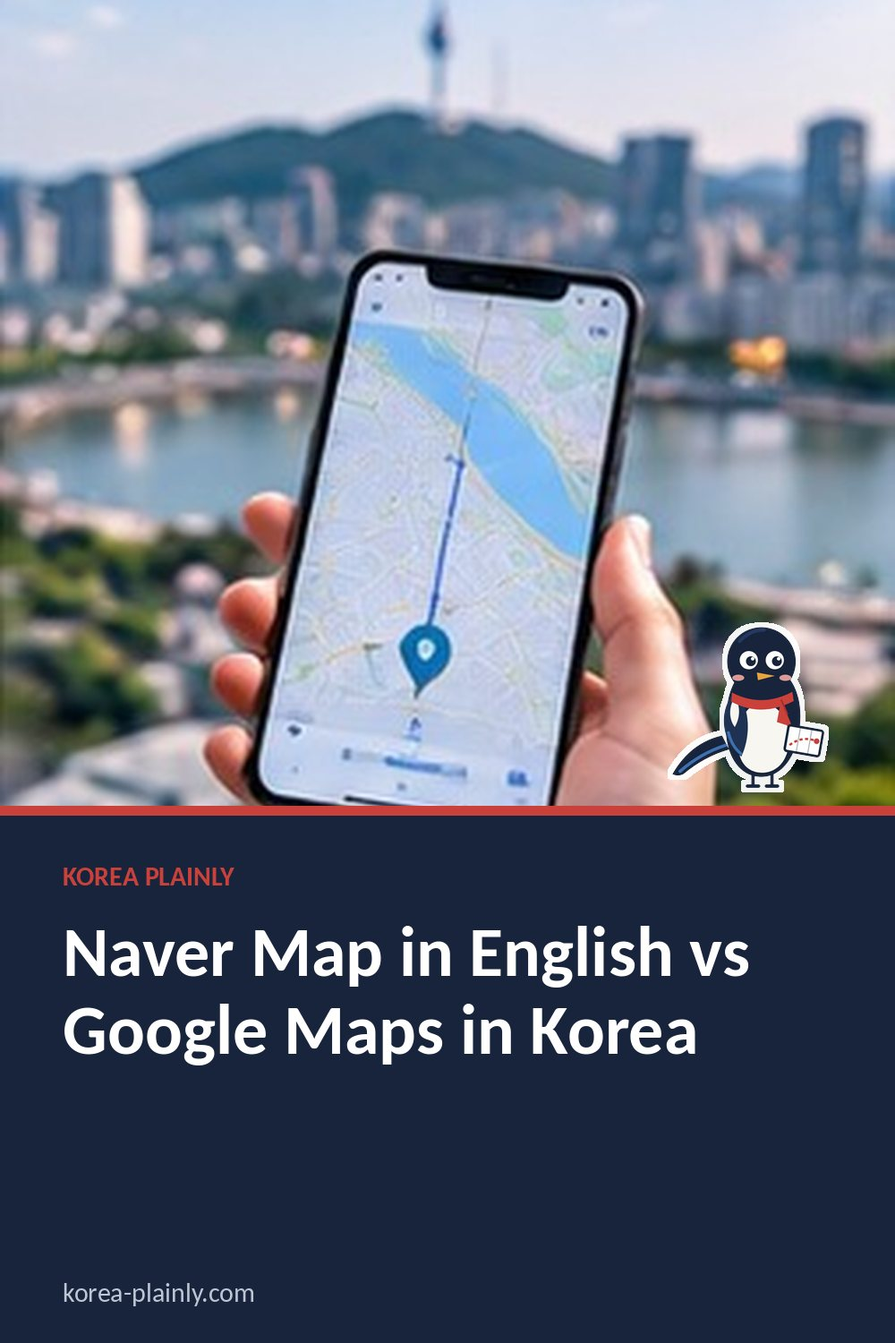
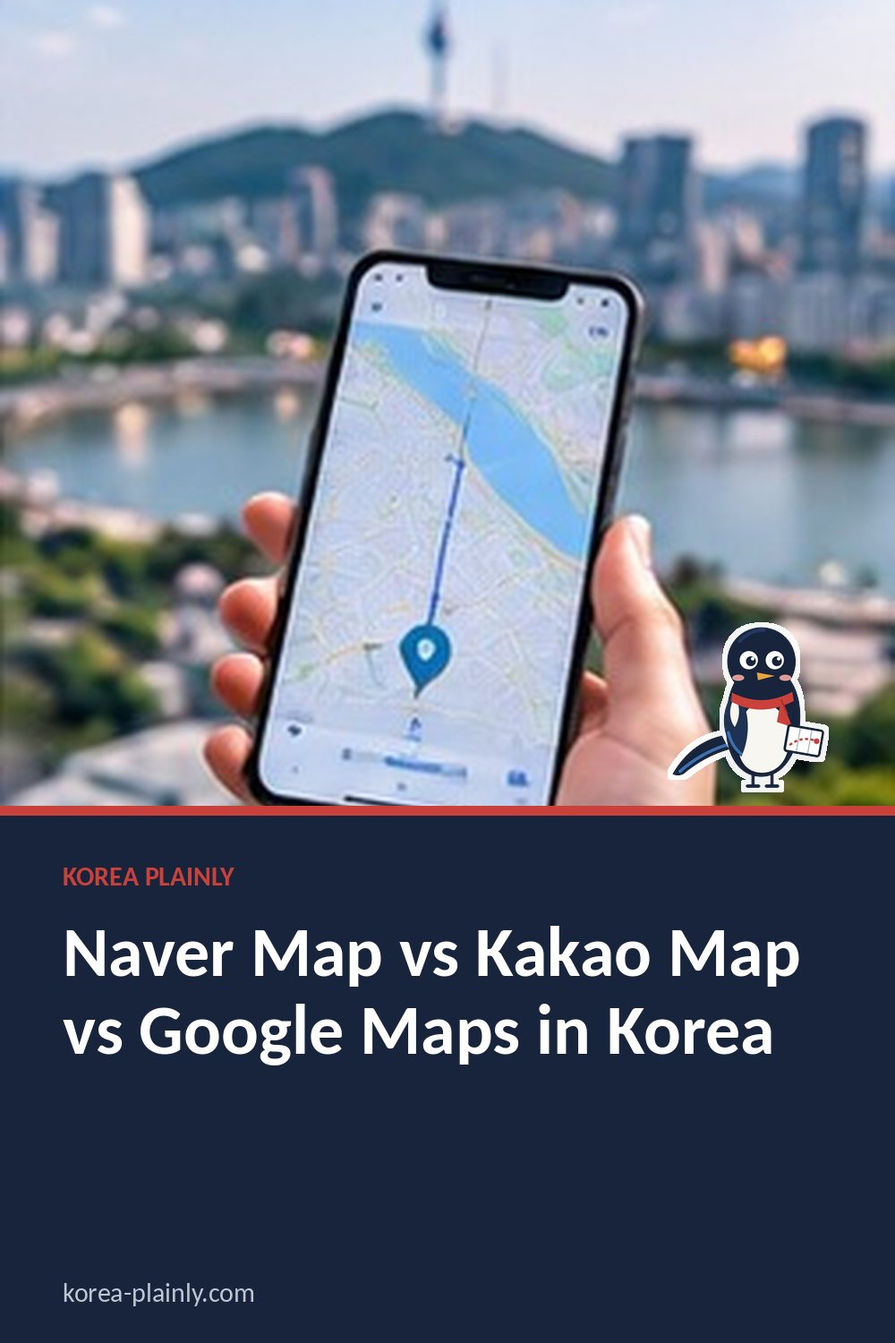
Maps guide: retitle for 'naver map vs kakao map' with a three-app comparison table, a fuller Kakao Map section and FAQ; update Google Maps navigation status; Seoul travel pass: retry cover photo (N Seoul Tower), hedge pass durations
Claude-Session: https://claude.ai/code/session_01MMQnqDytJhV9dFhVnL2wxf

Changed region(s): [[0.062, 0.6747, 0.899, 0.7973]]

diff --git a/naver-map-vs-google-maps-korea.html b/naver-map-vs-google-maps-korea.html
@@ -1,17 +1,17 @@
 <!doctype html>
 <html lang="en"><head><meta charset="utf-8"><meta name="viewport" content="width=device-width,initial-scale=1">
-<title>Naver Map in English vs Google Maps in Korea | Korea Plainly</title>
-<meta name="description" content="How to use Naver Map in English in Korea: language settings, subway exits and walking routes, and what Google Maps can and cannot do in 2026.">
+<title>Naver Map vs Kakao Map vs Google Maps in Korea: Which Map App to Use</title>
+<meta name="description" content="Naver Map vs Kakao Map vs Google Maps in Korea: which app works in English, shows subway exits and walking routes, and how to set each one up.">
 <link rel="canonical" href="https://korea-plainly.com/naver-map-vs-google-maps-korea.html">
 <meta property="og:type" content="article">
-<meta property="og:title" content="Naver Map in English vs Google Maps in Korea | Korea Plainly">
-<meta property="og:description" content="How to use Naver Map in English in Korea: language settings, subway exits and walking routes, and what Google Maps can and cannot do in 2026.">
+<meta property="og:title" content="Naver Map vs Kakao Map vs Google Maps in Korea: Which Map App to Use | Korea Plainly">
+<meta property="og:description" content="Naver Map vs Kakao Map vs Google Maps in Korea: which app works in English, shows subway exits and walking routes, and how to set each one up.">
 <meta property="og:url" content="https://korea-plainly.com/naver-map-vs-google-maps-korea.html">
 <meta property="og:image" content="https://korea-plainly.com/thumb-maps-korea.jpg">
 <meta property="og:site_name" content="Korea Plainly">
 <meta name="twitter:card" content="summary_large_image">
-<meta name="twitter:title" content="Naver Map in English vs Google Maps in Korea | Korea Plainly">
-<meta name="twitter:description" content="How to use Naver Map in English in Korea: language settings, subway exits and walking routes, and what Google Maps can and cannot do in 2026.">
+<meta name="twitter:title" content="Naver Map vs Kakao Map vs Google Maps in Korea: Which Map App to Use | Korea Plainly">
+<meta name="twitter:description" content="Naver Map vs Kakao Map vs Google Maps in Korea: which app works in English, shows subway exits and walking routes, and how to set each one up.">
 <meta name="twitter:image" content="https://korea-plainly.com/thumb-maps-korea.jpg">
 <link rel="stylesheet" href="style.css?v=20261015-1">
 <style>
@@ -22,9 +22,9 @@
 <script async src="https://www.googletagmanager.com/gtag/js?id=G-F508WWT8G9"></script><script>window.dataLayer=window.dataLayer||[];function gtag(){dataLayer.push(arguments);}gtag('js',new Date());gtag('config','G-F508WWT8G9');</script>
 <link rel="stylesheet" href="article.css?v=3">
 <link rel="stylesheet" href="https://fonts.googleapis.com/css2?family=DM+Sans:wght@400;500;600;700&family=Playfair+Display:ital,wght@0,600;1,600&display=swap">
-<script type="application/ld+json" id="kp-faq-ld">{"@context": "https://schema.org", "@type": "FAQPage", "mainEntity": [{"@type": "Question", "name": "Does Google Maps work in South Korea?", "acceptedAnswer": {"@type": "Answer", "text": "Partly. Place search, reviews and public transport directions work. Full walking and driving directions were approved with conditions in 2026 but were still being rolled out that autumn, so keep a Korean map app as well."}}, {"@type": "Question", "name": "Is Naver Map available in English?", "acceptedAnswer": {"@type": "Answer", "text": "Yes. Change the app language to English in Settings. Menus, route steps and most station names switch to English, while restaurant menus and reviews often stay in Korean."}}, {"@type": "Question", "name": "Do I need a Naver account to use Naver Map?", "acceptedAnswer": {"@type": "Answer", "text": "No. Searching and directions work without one. You only need to sign in to save places to your own lists."}}]}</script>
-<script type="application/ld+json" id="kp-article-ld">{"@context": "https://schema.org", "@type": "Article", "headline": "Naver Map in English vs Google Maps in Korea", "description": "How to use Naver Map in English in Korea: language settings, subway exits and walking routes, and what Google Maps can and cannot do in 2026.", "image": ["https://korea-plainly.com/thumb-maps-korea.jpg"], "datePublished": "2026-10-07", "dateModified": "2026-10-24", "author": {"@type": "Person", "name": "Jungsuk Kim", "url": "https://korea-plainly.com/about.html#author"}, "publisher": {"@type": "Organization", "name": "Korea Plainly", "url": "https://korea-plainly.com/"}, "mainEntityOfPage": "https://korea-plainly.com/naver-map-vs-google-maps-korea.html"}</script>
-<script type="application/ld+json" id="kp-breadcrumb-ld">{"@context": "https://schema.org", "@type": "BreadcrumbList", "itemListElement": [{"@type": "ListItem", "position": 1, "name": "Home", "item": "https://korea-plainly.com/"}, {"@type": "ListItem", "position": 2, "name": "Guides", "item": "https://korea-plainly.com/guides.html"}, {"@type": "ListItem", "position": 3, "name": "Apps & Tips", "item": "https://korea-plainly.com/guides.html?category=apps"}, {"@type": "ListItem", "position": 4, "name": "Naver Map in English vs Google Maps in Korea", "item": "https://korea-plainly.com/naver-map-vs-google-maps-korea.html"}]}</script>
+<script type="application/ld+json" id="kp-faq-ld">{"@context": "https://schema.org", "@type": "FAQPage", "mainEntity": [{"@type": "Question", "name": "Does Google Maps work in South Korea?", "acceptedAnswer": {"@type": "Answer", "text": "Partly. Place search, reviews and public transport directions work. Google plans full walking and driving directions after a conditional approval in 2026, but has not given a date, so keep Naver Map or Kakao Map as well."}}, {"@type": "Question", "name": "Is Naver Map available in English?", "acceptedAnswer": {"@type": "Answer", "text": "Yes. Change the app language to English in Settings. Menus, route steps and most station names switch to English, while restaurant menus and reviews often stay in Korean."}}, {"@type": "Question", "name": "Naver Map or Kakao Map: which is better for tourists?", "acceptedAnswer": {"@type": "Answer", "text": "Naver Map, for most visitors, because its English mode is more complete and it shows subway exits and transfer carriages clearly. Kakao Map is a useful backup, especially for live bus tracking and for places Naver cannot find."}}, {"@type": "Question", "name": "Do I need a Naver or Kakao account?", "acceptedAnswer": {"@type": "Answer", "text": "No. Searching and directions work in both apps without an account. You only need to sign in to save places to your own lists."}}]}</script>
+<script type="application/ld+json" id="kp-article-ld">{"@context": "https://schema.org", "@type": "Article", "headline": "Naver Map vs Kakao Map vs Google Maps in Korea: Which Map App to Use", "description": "Naver Map vs Kakao Map vs Google Maps in Korea: which app works in English, shows subway exits and walking routes, and how to set each one up.", "image": ["https://korea-plainly.com/thumb-maps-korea.jpg"], "datePublished": "2026-10-07", "dateModified": "2026-10-27", "author": {"@type": "Person", "name": "Jungsuk Kim", "url": "https://korea-plainly.com/about.html#author"}, "publisher": {"@type": "Organization", "name": "Korea Plainly", "url": "https://korea-plainly.com/"}, "mainEntityOfPage": "https://korea-plainly.com/naver-map-vs-google-maps-korea.html"}</script>
+<script type="application/ld+json" id="kp-breadcrumb-ld">{"@context": "https://schema.org", "@type": "BreadcrumbList", "itemListElement": [{"@type": "ListItem", "position": 1, "name": "Home", "item": "https://korea-plainly.com/"}, {"@type": "ListItem", "position": 2, "name": "Guides", "item": "https://korea-plainly.com/guides.html"}, {"@type": "ListItem", "position": 3, "name": "Apps & Tips", "item": "https://korea-plainly.com/guides.html?category=apps"}, {"@type": "ListItem", "position": 4, "name": "Naver Map vs Kakao Map vs Google Maps in Korea: Which Map App to Use", "item": "https://korea-plainly.com/naver-map-vs-google-maps-korea.html"}]}</script>
 <meta property="article:published_time" content="2026-10-07">
 </head><body class="kp-article">
 <header><div class="nav wrap"><a class="brand" href="index.html"><span class="taegeuk"></span><span>Korea <b>Plainly</b></span></a>
@@ -39,15 +39,15 @@
 </nav>
 <button class="menu" aria-label="menu">☰</button></div></header>
 <main class="article-page"><section class="wrap article-hero"><nav class="kp-crumbs" data-kp="crumbs" aria-label="Breadcrumb"><a href="index.html">Home</a> <span>›</span> <a href="guides.html">Guides</a> <span>›</span> <a href="guides.html?category=apps">Apps &amp; Tips</a></nav>
-<p class="kicker"><i></i> APPS & TIPS · TRAVEL</p><h1>Naver Map in English vs Google Maps in Korea</h1>
-<p class="kp-date" data-kp="date">By <a href="about.html#author">Jungsuk Kim</a>, Korea Plainly · Published <time datetime="2026-10-07">7 October 2026</time> · Updated <time datetime="2026-10-24">24 October 2026</time></p><p class="article-lead">How to use Naver Map in English in Korea: language settings, subway exits and walking routes, and what Google Maps can and cannot do in 2026.</p><p class="article-meta">Korea Plainly · 6 min read</p></section>
-<div class="wrap"><img class="cover" src="thumb-maps-korea.jpg" alt="Naver Map in English vs Google Maps in Korea"></div>
+<p class="kicker"><i></i> APPS & TIPS · TRAVEL</p><h1>Naver Map vs Kakao Map vs Google Maps in Korea: Which Map App to Use</h1>
+<p class="kp-date" data-kp="date">By <a href="about.html#author">Jungsuk Kim</a>, Korea Plainly · Published <time datetime="2026-10-07">7 October 2026</time> · Updated <time datetime="2026-10-27">27 October 2026</time></p><p class="article-lead">Naver Map vs Kakao Map vs Google Maps in Korea: which app works in English, shows subway exits and walking routes, and how to set each one up.</p><p class="article-meta">Korea Plainly · 7 min read</p></section>
+<div class="wrap"><img class="cover" src="thumb-maps-korea.jpg" alt="Naver Map, Kakao Map and Google Maps compared for Korea"></div>
 <article class="article-body">
-<p>If you are used to Google Maps, Korea can be a surprise. Google Maps finds places and shows bus and subway routes here, but for years it has not offered the step-by-step walking and driving directions you get at home. That is why most locals, and most visitors who have been once, open <strong>Naver Map</strong> instead. The good news is that Naver Map works in English. This guide shows how to set it up, what it does better, and where Google Maps still earns its place on your phone.</p>
+<p>If you are used to Google Maps, Korea can be a surprise. Google Maps finds places and shows bus and subway routes here, but it still does not give the step-by-step walking and driving directions you get at home. Locals use two Korean apps instead: <strong>Naver Map</strong> and <strong>Kakao Map</strong>. Both are free, both have an English mode, and both are far better than Google at the small things that matter on foot, such as which subway exit to take. This guide compares the three, shows how to set up Naver Map in English, and explains where Kakao Map and Google Maps still earn a place on your phone.</p>
 
-<nav class="kp-toc" data-kp="toc" aria-label="On this page"><p>On this page</p><ol><li><a href="#does-google-maps-work-in-korea">Does Google Maps work in Korea?</a></li><li><a href="#how-to-use-naver-map-in-english">How to use Naver Map in English</a></li><li><a href="#what-naver-map-does-better">What Naver Map does better</a></li><li><a href="#searching-tips">Searching in English: tips that save time</a></li><li><a href="#kakaomap">What about KakaoMap?</a></li><li><a href="#the-simple-approach">The simple approach</a></li><li><a href="#faq">FAQ</a></li></ol></nav>
+<nav class="kp-toc" data-kp="toc" aria-label="On this page"><p>On this page</p><ol><li><a href="#does-google-maps-work-in-korea">Does Google Maps work in Korea?</a></li><li><a href="#naver-map-vs-kakao-map-vs-google-maps">Naver Map vs Kakao Map vs Google Maps at a glance</a></li><li><a href="#how-to-use-naver-map-in-english">How to use Naver Map in English</a></li><li><a href="#what-naver-map-does-better">What Naver Map does better</a></li><li><a href="#searching-tips">Searching in English: tips that save time</a></li><li><a href="#kakaomap">Kakao Map: when it is the better choice</a></li><li><a href="#the-simple-approach">The simple approach</a></li><li><a href="#faq">FAQ</a></li></ol></nav>
 <h2 id="does-google-maps-work-in-korea">Does Google Maps work in Korea?</h2>
-<p>Partly. Korean rules on exporting detailed map data kept Google from offering full navigation for many years. In February 2026 the government approved Google's request with conditions, and Google has said it is preparing turn-by-turn directions for Korea. As of autumn 2026 that was still being rolled out, so on your trip Google Maps may or may not walk you to the door. Check it on the day, but do not rely on it alone.</p>
+<p>Partly. Korean rules on exporting detailed map data kept Google from offering full navigation for many years. In February 2026 the government approved Google's request with conditions (sensitive sites blurred, coordinates hidden), and in August 2026 Google said it plans to bring turn-by-turn directions to Korea, without giving a date. Until that arrives, Google Maps will not reliably walk you to the door. Check the app on your trip, but do not rely on it alone.</p>
 <p>What Google Maps does well in Korea right now:</p>
 <ul>
 <li>subway and bus directions between two points,</li>
@@ -55,6 +55,20 @@
 <li>keeping the list of places you saved while planning at home.</li>
 </ul>
 <p>What it does less well: walking routes through backstreets, which subway exit to use, and up-to-date details for small restaurants and cafes. Those are exactly the things Naver Map is built for.</p>
+
+<h2 id="naver-map-vs-kakao-map-vs-google-maps">Naver Map vs Kakao Map vs Google Maps at a glance</h2>
+<table>
+<thead><tr><th></th><th>Naver Map</th><th>Kakao Map</th><th>Google Maps</th></tr></thead>
+<tbody>
+<tr><td>English menus</td><td>Yes, good</td><td>Yes, patchier</td><td>Yes</td></tr>
+<tr><td>Walking directions</td><td>Yes</td><td>Yes</td><td>Limited (rollout planned)</td></tr>
+<tr><td>Subway exit numbers</td><td>Yes</td><td>Yes</td><td>Sometimes</td></tr>
+<tr><td>Live bus arrivals</td><td>Yes</td><td>Yes, very good</td><td>Partly</td></tr>
+<tr><td>Reviews in English</td><td>Few</td><td>Few</td><td>Many</td></tr>
+<tr><td>Account needed</td><td>Only to save places</td><td>Only to save places</td><td>Only to save places</td></tr>
+</tbody>
+</table>
+<p>In short: <strong>Naver Map</strong> is the best main app for most visitors, <strong>Kakao Map</strong> is a strong second opinion and the best for buses, and <strong>Google Maps</strong> is useful for planning at home and for reading English reviews.</p>
 
 <h2 id="how-to-use-naver-map-in-english">How to use Naver Map in English</h2>
 <p>Naver Map is free on iPhone and Android. Install it before you fly, while you are on familiar Wi-Fi.</p>
@@ -85,14 +99,22 @@
 <li><strong>Use the Naver Map links in our place guides.</strong> Every Korea Plainly place guide has a button that opens the exact place in Naver Map.</li>
 </ul>
 
-<h2 id="kakaomap">What about KakaoMap?</h2>
-<p><strong>KakaoMap</strong> is the other big Korean map app. It offers similar walking and transit directions, live bus times and its own street-level photos. Its English support has improved but is still patchier than Naver Map's, so most first-time visitors are happier with Naver Map as their main app and KakaoMap as a backup. If you use the Kakao T app for taxis, you will meet Kakao's maps there anyway; our <a href="kakao-t-taxi-korea.html">Kakao T taxi guide</a> explains how it works.</p>
+<h2 id="kakaomap">Kakao Map: when it is the better choice</h2>
+<p><strong>Kakao Map</strong> (written KakaoMap in the app stores) is run by Kakao, the company behind KakaoTalk and the Kakao T taxi app. Its walking and transit directions are as good as Naver's, and many Koreans prefer it for buses: the live bus screen shows where each bus is on its route, how full it is on some lines, and the last bus of the night.</p>
+<p>To use it in English, open the menu (≡), go to Settings and choose English as the language. If you cannot find the option, set your phone itself to English and restart the app. Menus and labels switch to English, but reviews, business descriptions and some transit alerts stay in Korean, and the website version is mostly Korean. In practice its English is a little less complete than Naver Map's.</p>
+<p>Kakao Map is worth installing as a backup when:</p>
+<ul>
+<li>Naver Map cannot find a place, or shows it in a strange spot. The two apps use different listings, so the second one often fixes the problem.</li>
+<li>you are waiting for a bus, especially a late one, and want to see exactly where it is;</li>
+<li>you are outside Seoul, where some small restaurants and guesthouses list themselves on one app but not the other.</li>
+</ul>
+<p>For in-car directions Kakao uses a separate app, Kakao Navi, which matters only if you rent a car. If you use Kakao T for taxis, you will see Kakao's maps there anyway; our <a href="kakao-t-taxi-korea.html">Kakao T taxi guide</a> explains how it works.</p>
 
 <h2 id="the-simple-approach">The simple approach</h2>
 <p>You do not have to choose one app. A setup that works for most visitors:</p>
 <ul>
-<li><strong>Before the trip:</strong> plan and save places in Google Maps if that is what you know, and install Naver Map in English with your hotel saved.</li>
-<li><strong>On the ground:</strong> use Naver Map for walking, subway exits and buses; use Google Maps to check English reviews.</li>
+<li><strong>Before the trip:</strong> plan and save places in Google Maps if that is what you know, and install Naver Map and Kakao Map, switch both to English and save your hotel.</li>
+<li><strong>On the ground:</strong> use Naver Map for walking, subway exits and buses; open Kakao Map when Naver cannot find a place or you are tracking a bus; use Google Maps to check English reviews.</li>
 <li><strong>Stay connected:</strong> both apps need mobile data for live routes, so sort out an eSIM, SIM or pocket Wi-Fi first (see our <a href="sim-esim-wifi-korea.html">SIM and eSIM guide</a>).</li>
 </ul>
 <p>Once you know which exit to take, the subway itself is easy; our <a href="seoul-subway-for-foreigners.html">Seoul subway guide</a> covers the rest.</p>
@@ -101,11 +123,13 @@
 <section class="faq">
 <h2 id="faq">FAQ</h2>
 <h3>Does Google Maps work in South Korea?</h3>
-<p>Partly. Place search, reviews and public transport directions work. Full walking and driving directions were approved with conditions in 2026 but were still being rolled out that autumn, so keep a Korean map app as well.</p>
+<p>Partly. Place search, reviews and public transport directions work. Google plans full walking and driving directions after a conditional approval in 2026, but has not given a date, so keep Naver Map or Kakao Map as well.</p>
 <h3>Is Naver Map available in English?</h3>
 <p>Yes. Change the app language to English in Settings. Menus, route steps and most station names switch to English, while restaurant menus and reviews often stay in Korean.</p>
-<h3>Do I need a Naver account to use Naver Map?</h3>
-<p>No. Searching and directions work without one. You only need to sign in to save places to your own lists.</p>
+<h3>Naver Map or Kakao Map: which is better for tourists?</h3>
+<p>Naver Map, for most visitors, because its English mode is more complete and it shows subway exits and transfer carriages clearly. Kakao Map is a useful backup, especially for live bus tracking and for places Naver cannot find.</p>
+<h3>Do I need a Naver or Kakao account?</h3>
+<p>No. Searching and directions work in both apps without an account. You only need to sign in to save places to your own lists.</p>
 </section>
 <a class="back" href="guides.html">← Back to all guides</a>
 <!-- kp-kkachi -->

diff --git a/seoul-travel-pass.html b/seoul-travel-pass.html
@@ -245,12 +245,12 @@ footer {
 <script async src="https://pagead2.googlesyndication.com/pagead/js/adsbygoogle.js?client=ca-pub-7379462117232471" crossorigin="anonymous"></script>
 <style>.kp-date{font-size:13px;color:#62635f;margin:-6px 0 22px}</style>
 <script type="application/ld+json" id="kp-faq-ld">{"@context": "https://schema.org", "@type": "FAQPage", "mainEntity": [{"@type": "Question", "name": "Is the Discover Seoul Pass worth buying?", "acceptedAnswer": {"@type": "Answer", "text": "It can be worthwhile if you plan to visit several attractions included with the pass during its validity period. Compare the attractions you genuinely want to see with the pass terms before buying. If your plans are flexible or focus on places that are not included, paying separately may suit you better."}}, {"@type": "Question", "name": "Does the Discover Seoul Pass cover public transportation?", "acceptedAnswer": {"@type": "Answer", "text": "Do not assume the pass gives you unlimited rides on Seoul’s public transport. Transport features and benefits can depend on the pass type, and some travel costs may need to be paid separately. Check the current details for your chosen pass and how to add or use any transport balance."}}, {"@type": "Question", "name": "When should I activate the pass?", "acceptedAnswer": {"@type": "Answer", "text": "Check the validity rules before your first visit, since the activation point and duration can depend on the pass you choose. Plan to use included attractions within the stated validity period, and avoid activating it earlier than necessary if you want to make the most of your sightseeing time."}}]}</script>
-<script type="application/ld+json" id="kp-article-ld">{"@context": "https://schema.org", "@type": "Article", "headline": "Discover Seoul Pass: Is the Seoul Travel Pass Worth It?", "description": "Find out how the Discover Seoul Pass works, which Seoul attractions suit it, and how to decide if it will save you money and time.", "image": ["https://korea-plainly.com/street.jpg"], "datePublished": "2026-10-27", "dateModified": "2026-10-27", "author": {"@type": "Person", "name": "Jungsuk Kim", "url": "https://korea-plainly.com/about.html#author"}, "publisher": {"@type": "Organization", "name": "Korea Plainly", "url": "https://korea-plainly.com/"}, "mainEntityOfPage": "https://korea-plainly.com/seoul-travel-pass.html"}</script>
-<script type="application/ld+json" id="kp-breadcrumb-ld">{"@context": "https://schema.org", "@type": "BreadcrumbList", "itemListElement": [{"@type": "ListItem", "position": 1, "name": "Home", "item": "https://korea-plainly.com/"}, {"@type": "ListItem", "position": 2, "name": "Guides", "item": "https://korea-plainly.com/guides.html"}, {"@type": "ListItem", "position": 3, "name": "Money", "item": "https://korea-plainly.com/guides.html?category=money"}, {"@type": "ListItem", "position": 4, "name": "Discover Seoul Pass: Is the Seoul Travel Pass Worth It?", "item": "https://korea-plainly.com/seoul-travel-pass.html"}]}</script>
-<meta property="article:published_time" content="2026-10-27">
 <link rel="stylesheet" href="article.css?v=3">
 <link rel="stylesheet" href="https://fonts.googleapis.com/css2?family=DM+Sans:wght@400;500;600;700&family=Playfair+Display:ital,wght@0,600;1,600&display=swap">
 <link rel="icon" href="/favicon.svg" type="image/svg+xml">
+<script type="application/ld+json" id="kp-article-ld">{"@context": "https://schema.org", "@type": "Article", "headline": "Discover Seoul Pass: Is the Seoul Travel Pass Worth It?", "description": "Find out how the Discover Seoul Pass works, which Seoul attractions suit it, and how to decide if it will save you money and time.", "image": ["https://korea-plainly.com/street.jpg"], "datePublished": "2026-10-27", "dateModified": "2026-10-27", "author": {"@type": "Person", "name": "Jungsuk Kim", "url": "https://korea-plainly.com/about.html#author"}, "publisher": {"@type": "Organization", "name": "Korea Plainly", "url": "https://korea-plainly.com/"}, "mainEntityOfPage": "https://korea-plainly.com/seoul-travel-pass.html"}</script>
+<script type="application/ld+json" id="kp-breadcrumb-ld">{"@context": "https://schema.org", "@type": "BreadcrumbList", "itemListElement": [{"@type": "ListItem", "position": 1, "name": "Home", "item": "https://korea-plainly.com/"}, {"@type": "ListItem", "position": 2, "name": "Guides", "item": "https://korea-plainly.com/guides.html"}, {"@type": "ListItem", "position": 3, "name": "Money", "item": "https://korea-plainly.com/guides.html?category=money"}, {"@type": "ListItem", "position": 4, "name": "Discover Seoul Pass: Is the Seoul Travel Pass Worth It?", "item": "https://korea-plainly.com/seoul-travel-pass.html"}]}</script>
+<meta property="article:published_time" content="2026-10-27">
 </head>
 
 <body class="kp-article">
@@ -299,7 +299,7 @@ Find out how the Discover Seoul Pass works, which Seoul attractions suit it, and
 <p>The Discover Seoul Pass can make a busy sightseeing trip cheaper, but it is not a general transport pass and it does not suit every visitor. Its value depends on how many included attractions you can comfortably visit during its timed validity. Plan around a few places you genuinely want to see, rather than racing across Seoul to collect admissions.</p>
 <nav class="kp-toc" data-kp="toc" aria-label="On this page"><p>On this page</p><ol><li><a href="#what-the-discover-seoul-pass-covers">What the Discover Seoul Pass covers</a></li><li><a href="#how-to-decide-if-it-is-worth-the-cost">How to decide if it is worth the cost</a></li><li><a href="#build-a-realistic-itinerary">Build a realistic itinerary</a></li><li><a href="#timing-and-practical-details">Timing and practical details</a></li><li><a href="#who-should-buy-it">Who should buy it?</a></li><li><a href="#frequently-asked-questions">Frequently Asked Questions</a></li></ol></nav>
 <h2 id="what-the-discover-seoul-pass-covers">What the Discover Seoul Pass covers</h2>
-<p>The pass is designed for international visitors and comes in timed options, commonly 24, 48, 72 or 120 hours. It gives free admission to participating attractions and may offer discounts or other benefits at selected places. Each free attraction is generally a one-time visit, not an unlimited ride or repeat entry.</p>
+<p>The pass is designed for international visitors and comes in timed options; recent versions have included 24-, 48-, 72- and 120-hour passes, and some sellers also offer a version where you pick a set number of attractions. It gives free admission to participating attractions and may offer discounts or other benefits at selected places. Each free attraction is generally a one-time visit, not an unlimited ride or repeat entry.</p>
 <p>Recent pass versions have featured major paid attractions such as N Seoul Tower Observatory, Lotte World Adventure, Seoul Sky and COEX Aquarium. The exact list and booking rules can change. Before buying, open the Discover Seoul Pass website or app and check that the places you want are included on your travel dates. Some experiences require a reservation or have separate conditions.</p>
 <p>The pass is not the same as a subway ticket. A physical card may have a T-money function, but you need to add transport credit separately; do not assume a mobile pass pays your subway fare. Use a T-money card or a suitable mobile transport option for travel around town.</p>
 <h2 id="how-to-decide-if-it-is-worth-the-cost">How to decide if it is worth the cost</h2>

diff --git a/guides.html b/guides.html
@@ -122,8 +122,8 @@ Ten Korean words that make eating out easy, with pronunciation: calling the serv
 </p><span class="guide-arrow">Read guide →</span></div>
 </a><a class="guide-card" href="naver-map-vs-google-maps-korea.html" data-guide-category="apps">
 <div class="guide-image" data-thumb="thumb-maps-korea.jpg"><img class="guide-thumb" src="thumb-maps-korea.jpg" alt="" loading="lazy" decoding="async"><span>04</span></div>
-<div class="guide-copy"><small>APPS & TIPS · TRAVEL</small><h2>Naver Map in English vs Google Maps in Korea</h2><p>
-How to use Naver Map in English in Korea: language settings, subway exits and walking routes, and what Google Maps can and cannot do in 2026.
+<div class="guide-copy"><small>APPS & TIPS · TRAVEL</small><h2>Naver Map vs Kakao Map vs Google Maps in Korea: Which Map App to Use</h2><p>
+Naver Map vs Kakao Map vs Google Maps in Korea: which app works in English, shows subway exits and walking routes, and how to set each one up.
 </p><span class="guide-arrow">Read guide →</span></div>
 </a><a class="guide-card" href="cash-cards-payments-korea.html" data-guide-category="money">
 <div class="guide-image" data-thumb="photo-cash-cards-payments-korea.jpg"><img class="guide-thumb" src="photo-cash-cards-payments-korea.jpg" alt="" loading="lazy" srcset="img/photo-cash-cards-payments-korea.a135953e.w480.webp 480w, img/photo-cash-cards-payments-korea.a135953e.w800.webp 800w, img/photo-cash-cards-payments-korea.a135953e.w1200.webp 1200w, photo-cash-cards-payments-korea.jpg 1600w" sizes="(max-width: 600px) 100vw, (max-width: 1000px) 50vw, 400px" decoding="async"><span>05</span></div>
